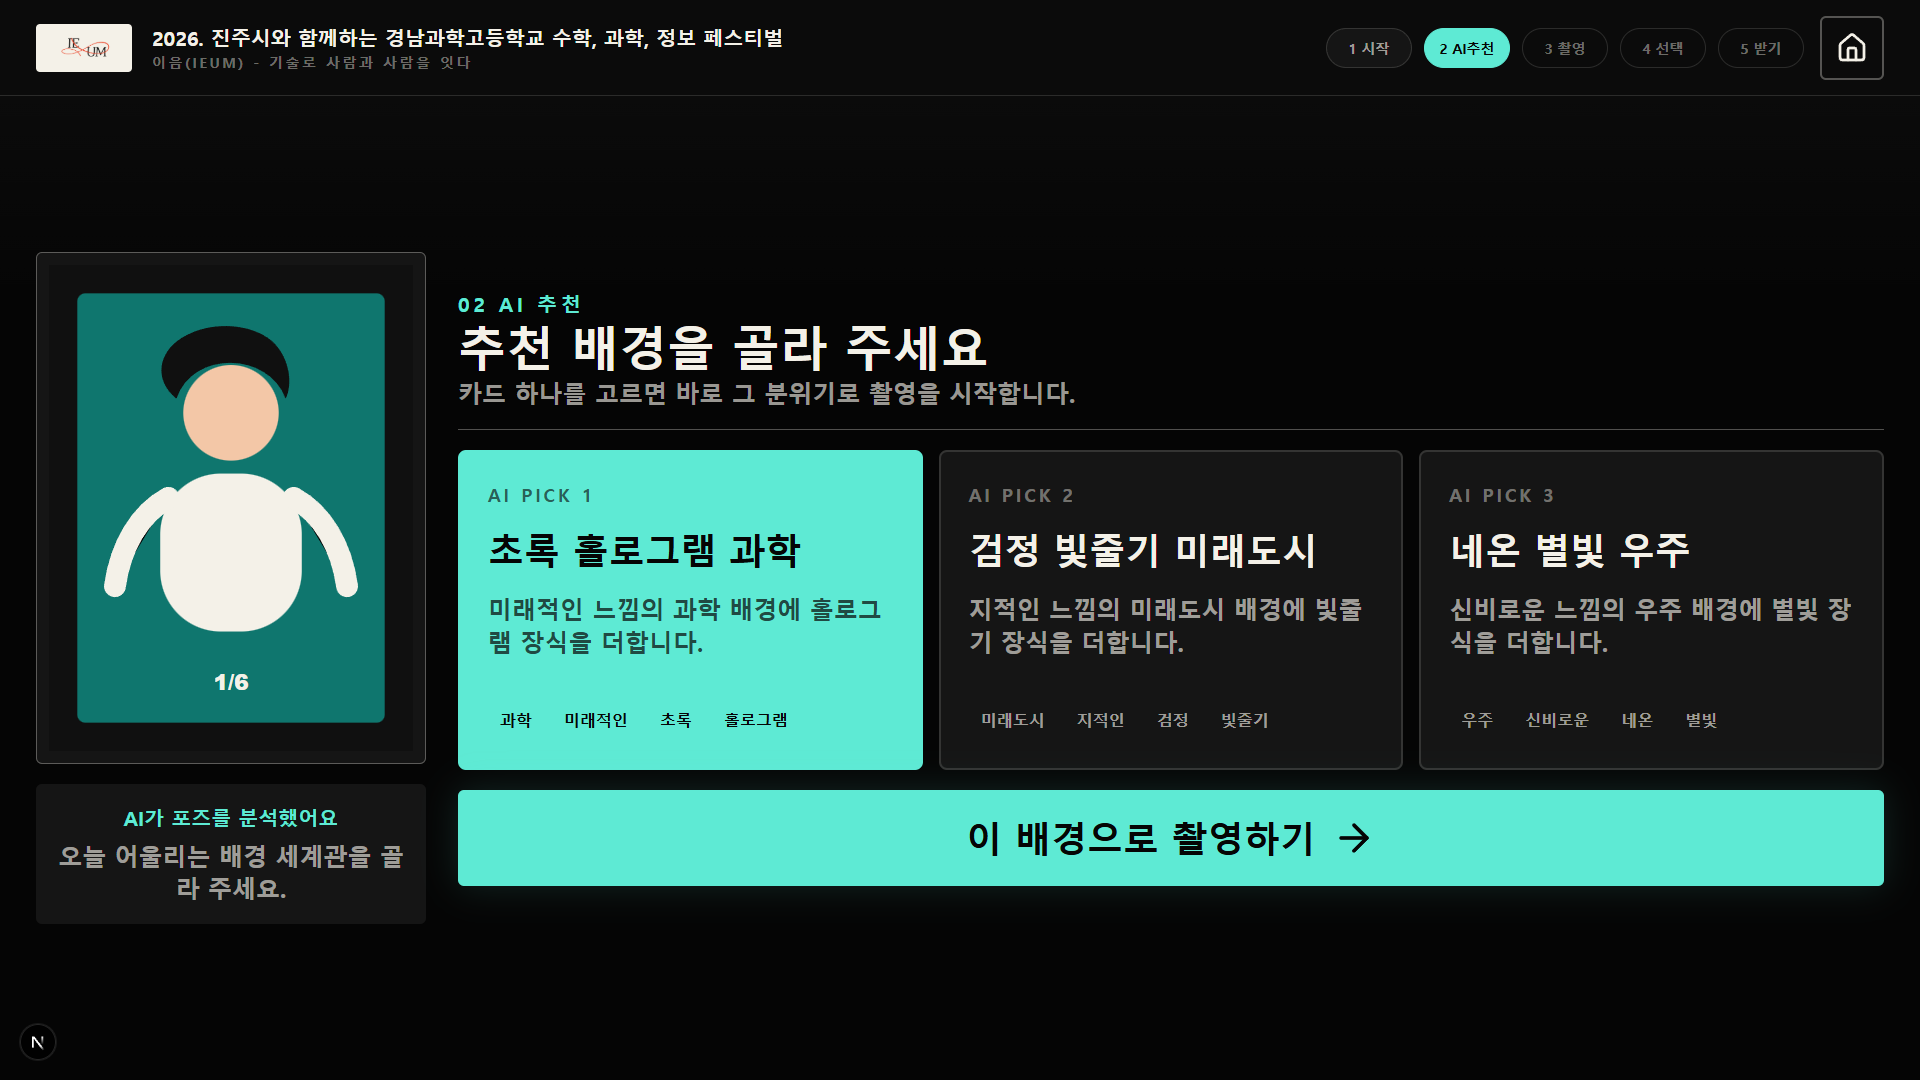
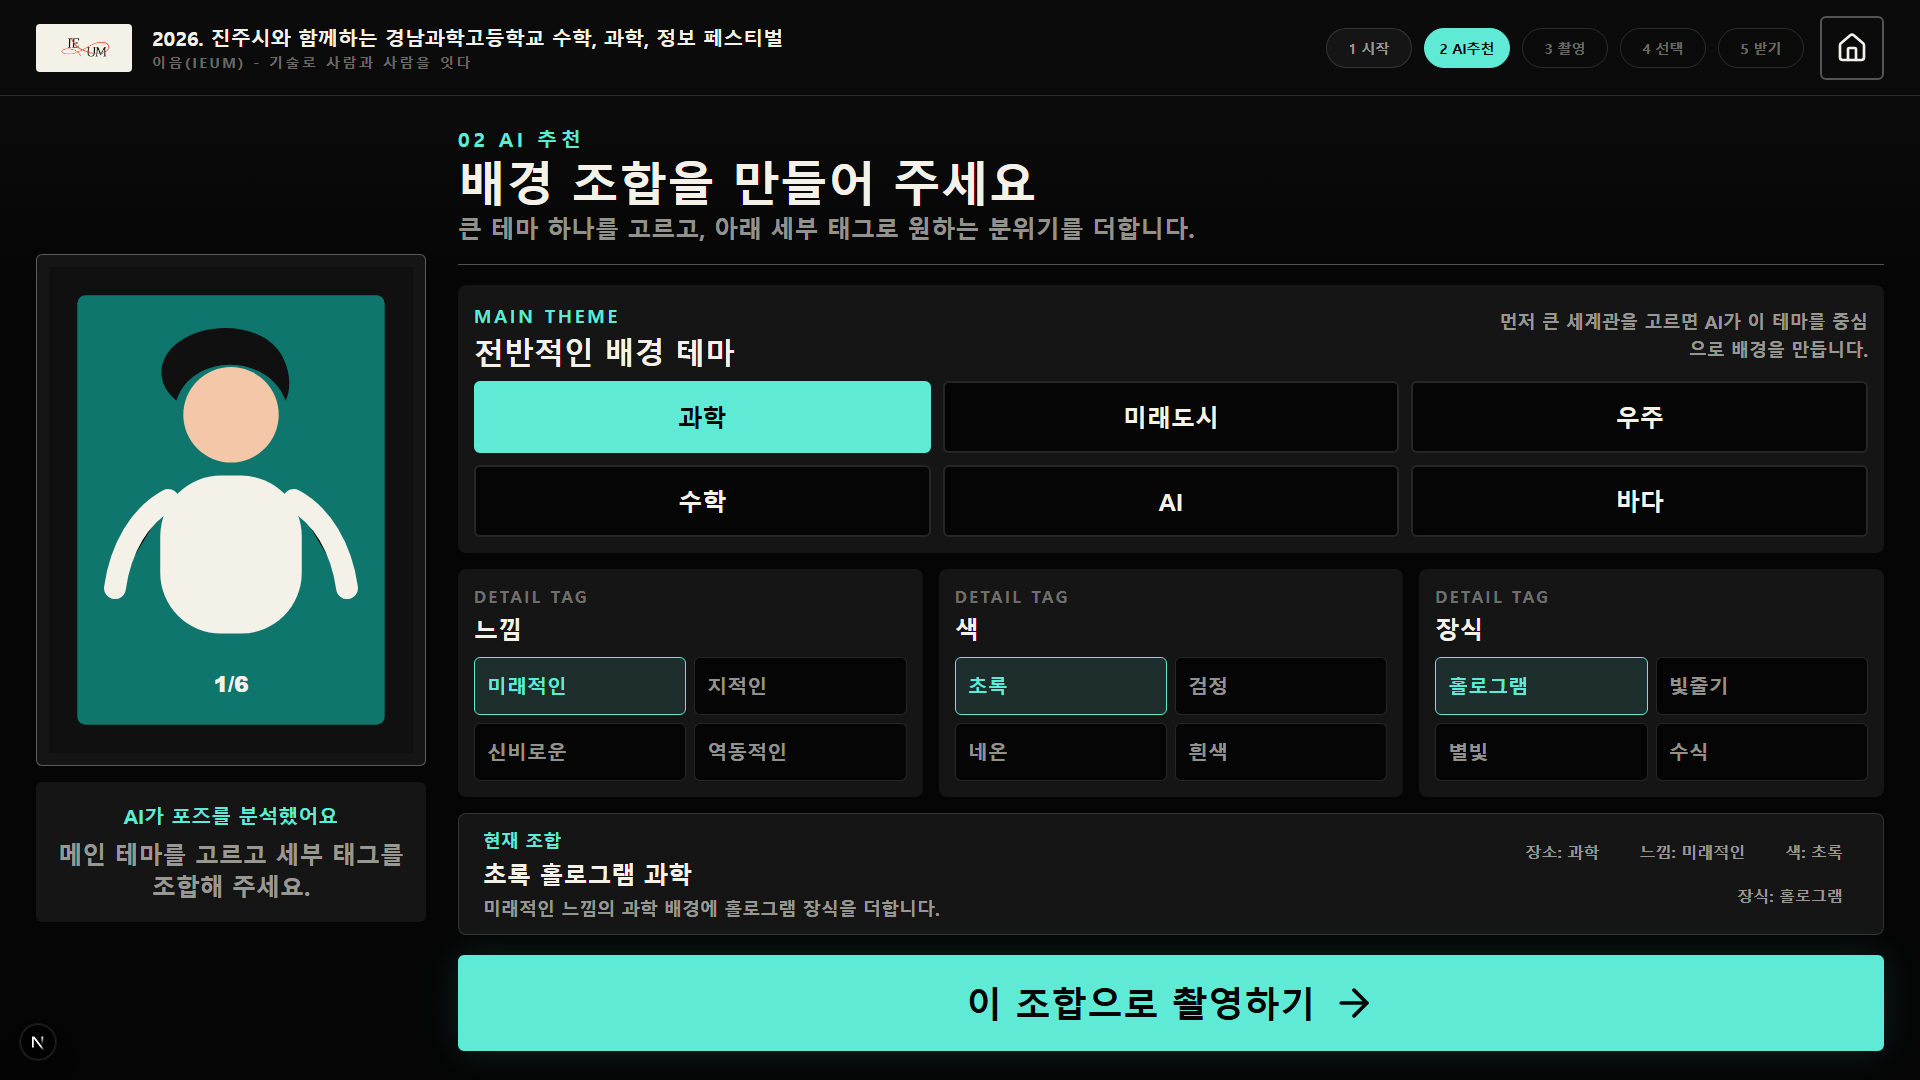
Expand background theme selection

diff --git a/components/BoothApp.tsx b/components/BoothApp.tsx
@@ -41,6 +41,7 @@ type BeautyPreviewStatus = "idle" | "processing" | "ready" | "error";
 type CountdownMode = "prep" | "shutter";
 
 const CATEGORIES: KeywordCategory[] = ["theme", "mood", "color", "effect"];
+const DETAIL_CATEGORIES: KeywordCategory[] = ["mood", "color", "effect"];
 const CATEGORY_LABELS: Record<KeywordCategory, string> = {
   theme: "장소",
   mood: "느낌",
@@ -125,14 +126,6 @@ function defaultKeywords(analysis: PoseAnalysis): SelectedKeywords {
   }, {} as SelectedKeywords);
 }
 
-function presetKeywords(analysis: PoseAnalysis, index: number): SelectedKeywords {
-  return CATEGORIES.reduce((acc, category) => {
-    const options = analysis.recommended_keywords[category];
-    acc[category] = options[index % options.length] ?? options[0];
-    return acc;
-  }, {} as SelectedKeywords);
-}
-
 function conceptTitle(selection: SelectedKeywords | null): string {
   if (!selection) {
     return BOOTH_NAME;
@@ -145,10 +138,6 @@ function conceptStory(selection: SelectedKeywords | null): string {
     return "포즈에 어울리는 과학축제 배경을 만듭니다.";
   }
   return `${selection.mood} 느낌의 ${selection.theme} 배경에 ${selection.effect} 장식을 더합니다.`;
-}
-
-function isSameSelection(a: SelectedKeywords | null, b: SelectedKeywords): boolean {
-  return Boolean(a && CATEGORIES.every((category) => a[category] === b[category]));
 }
 
 function svgDataUrl(svg: string): string {
@@ -950,6 +939,10 @@ export function BoothApp() {
     setStep("capture");
   }
 
+  function updateSelectedKeyword(category: KeywordCategory, value: string) {
+    setTagSelection((current) => (current ? { ...current, [category]: value } : current));
+  }
+
   function retryBackgroundGeneration() {
     if (!tagSelection) {
       return;
@@ -1341,7 +1334,7 @@ export function BoothApp() {
 
           {!error && step === "tag_select" && analysis && tagSelection && (
             <div className="grid min-h-0 grid-cols-[390px_1fr] gap-8">
-              <div className="grid content-center gap-5">
+              <div className="grid min-h-0 content-center gap-4">
                 <div className="overflow-hidden rounded-[6px] border border-[var(--line)] bg-[var(--surface)] p-3">
                   {/* eslint-disable-next-line @next/next/no-img-element */}
                   <img src={analysisPhoto ?? capturedPhotos[0]} alt="AI 추천 기준 사진" className="aspect-[3/4] w-full object-cover" />
@@ -1349,7 +1342,7 @@ export function BoothApp() {
                 <div className="rounded-[6px] bg-[var(--surface)] p-5 text-center">
                   <p className="text-xl font-black text-[var(--primary)]">AI가 포즈를 분석했어요</p>
                   <p className="mt-2 safe-text text-2xl font-black text-[var(--text-muted)]">
-                    오늘 어울리는 배경 세계관을 골라 주세요.
+                    메인 테마를 고르고 세부 태그를 조합해 주세요.
                   </p>
                 </div>
               </div>
@@ -1357,54 +1350,97 @@ export function BoothApp() {
               <div className="grid content-center gap-5">
                 <StepTitle
                   eyebrow="02 AI 추천"
-                  title="추천 배경을 골라 주세요"
-                  detail="카드 하나를 고르면 바로 그 분위기로 촬영을 시작합니다."
+                  title="배경 조합을 만들어 주세요"
+                  detail="큰 테마 하나를 고르고, 아래 세부 태그로 원하는 분위기를 더합니다."
                   compact
                 />
 
-                <div className="grid grid-cols-3 gap-4">
-                  {[0, 1, 2].map((presetIndex) => {
-                    const preset = presetKeywords(analysis, presetIndex);
-                    const active = isSameSelection(tagSelection, preset);
-                    return (
-                      <button
-                        key={`${preset.theme}-${preset.mood}-${preset.color}-${preset.effect}`}
-                        type="button"
-                        onClick={() => setTagSelection(preset)}
-                        className={`grid min-h-[320px] content-between rounded-[8px] border-2 p-7 text-left active:translate-y-[2px] ${
-                          active
-                            ? "border-[var(--primary)] bg-[var(--primary)] text-[var(--primary-text)]"
-                            : "border-[var(--line-soft)] bg-[var(--surface)] text-[var(--text)]"
-                        }`}
-                      >
-                        <div className="grid gap-5">
-                          <p className={`text-lg font-black tracking-[0.16em] ${active ? "text-[#050505]/60" : "text-[var(--text-subtle)]"}`}>
-                            AI PICK {presetIndex + 1}
-                          </p>
-                          <h3 className="safe-text text-4xl font-black leading-tight">{conceptTitle(preset)}</h3>
-                          <p className={`safe-text text-2xl font-black leading-snug ${active ? "text-[#050505]/70" : "text-[var(--text-muted)]"}`}>
-                            {conceptStory(preset)}
-                          </p>
+                <div className="grid gap-4">
+                  <div className="grid gap-3 rounded-[8px] bg-[var(--surface)] p-4">
+                    <div className="flex items-center justify-between gap-4">
+                      <div>
+                        <p className="text-lg font-black tracking-[0.16em] text-[var(--primary)]">MAIN THEME</p>
+                        <h3 className="mt-1 text-3xl font-black text-[var(--text)]">전반적인 배경 테마</h3>
+                      </div>
+                      <p className="safe-text max-w-[380px] text-right text-lg font-black text-[var(--text-muted)]">
+                        먼저 큰 세계관을 고르면 AI가 이 테마를 중심으로 배경을 만듭니다.
+                      </p>
+                    </div>
+                    <div className="grid grid-cols-3 gap-3">
+                      {analysis.recommended_keywords.theme.map((keyword) => {
+                        const active = tagSelection.theme === keyword;
+                        return (
+                          <button
+                            key={keyword}
+                            type="button"
+                            onClick={() => updateSelectedKeyword("theme", keyword)}
+                            className={`min-h-[72px] rounded-[6px] border-2 px-4 text-2xl font-black active:translate-y-[2px] ${
+                              active
+                                ? "border-[var(--primary)] bg-[var(--primary)] text-[var(--primary-text)]"
+                                : "border-[var(--line-soft)] bg-[#050505] text-[var(--text)]"
+                            }`}
+                          >
+                            {keyword}
+                          </button>
+                        );
+                      })}
+                    </div>
+                  </div>
+
+                  <div className="grid grid-cols-3 gap-4">
+                    {DETAIL_CATEGORIES.map((category) => {
+                      const selected = tagSelection[category];
+                      const options = analysis.recommended_keywords[category];
+                      return (
+                        <div key={category} className="grid content-start gap-3 rounded-[8px] bg-[var(--surface)] p-4">
+                          <div>
+                            <p className="text-base font-black tracking-[0.16em] text-[var(--text-subtle)]">
+                              DETAIL TAG
+                            </p>
+                            <h3 className="mt-1 text-2xl font-black text-[var(--text)]">{CATEGORY_LABELS[category]}</h3>
+                          </div>
+                          <div className="grid grid-cols-2 gap-2">
+                            {options.map((keyword) => {
+                              const active = selected === keyword;
+                              return (
+                                <button
+                                  key={`${category}-${keyword}`}
+                                  type="button"
+                                  onClick={() => updateSelectedKeyword(category, keyword)}
+                                  className={`min-h-[58px] rounded-[6px] border px-3 text-left text-xl font-black active:translate-y-[2px] ${
+                                    active
+                                      ? "border-[var(--primary)] bg-[rgba(94,234,212,0.12)] text-[var(--primary)]"
+                                      : "border-[var(--line-soft)] bg-[#050505] text-[var(--text-muted)]"
+                                  }`}
+                                >
+                                  {keyword}
+                                </button>
+                              );
+                            })}
+                          </div>
                         </div>
-                        <div className="mt-4 flex flex-wrap gap-2">
-                          {CATEGORIES.map((category) => (
-                            <span
-                              key={category}
-                              className={`rounded-full px-3 py-2 text-base font-black ${
-                                active ? "bg-[#050505]/12 text-[#050505]" : "bg-[#f4f1e8]/8 text-[var(--text-muted)]"
-                              }`}
-                            >
-                              {preset[category]}
-                            </span>
-                          ))}
-                        </div>
-                      </button>
-                    );
-                  })}
+                      );
+                    })}
+                  </div>
+
+                  <div className="grid grid-cols-[1fr_auto] items-center gap-5 rounded-[8px] border border-[var(--line-soft)] bg-[var(--surface)] px-6 py-3">
+                    <div className="min-w-0">
+                      <p className="text-lg font-black text-[var(--primary)]">현재 조합</p>
+                      <h3 className="safe-text mt-1 text-2xl font-black text-[var(--text)]">{conceptTitle(tagSelection)}</h3>
+                      <p className="safe-text mt-1 text-lg font-black text-[var(--text-muted)]">{conceptStory(tagSelection)}</p>
+                    </div>
+                    <div className="flex max-w-[460px] flex-wrap justify-end gap-2">
+                      {CATEGORIES.map((category) => (
+                        <span key={category} className="rounded-full bg-[#f4f1e8]/8 px-4 py-1.5 text-base font-black text-[var(--text-muted)]">
+                          {CATEGORY_LABELS[category]}: {tagSelection[category]}
+                        </span>
+                      ))}
+                    </div>
+                  </div>
                 </div>
 
-                <KioskButton onClick={() => void chooseTagsAndContinue()} className="min-h-[96px] text-3xl">
-                  이 배경으로 촬영하기
+                <KioskButton onClick={() => void chooseTagsAndContinue()} className="min-h-[82px] text-2xl">
+                  이 조합으로 촬영하기
                   <ArrowRight className="h-11 w-11" />
                 </KioskButton>
               </div>
